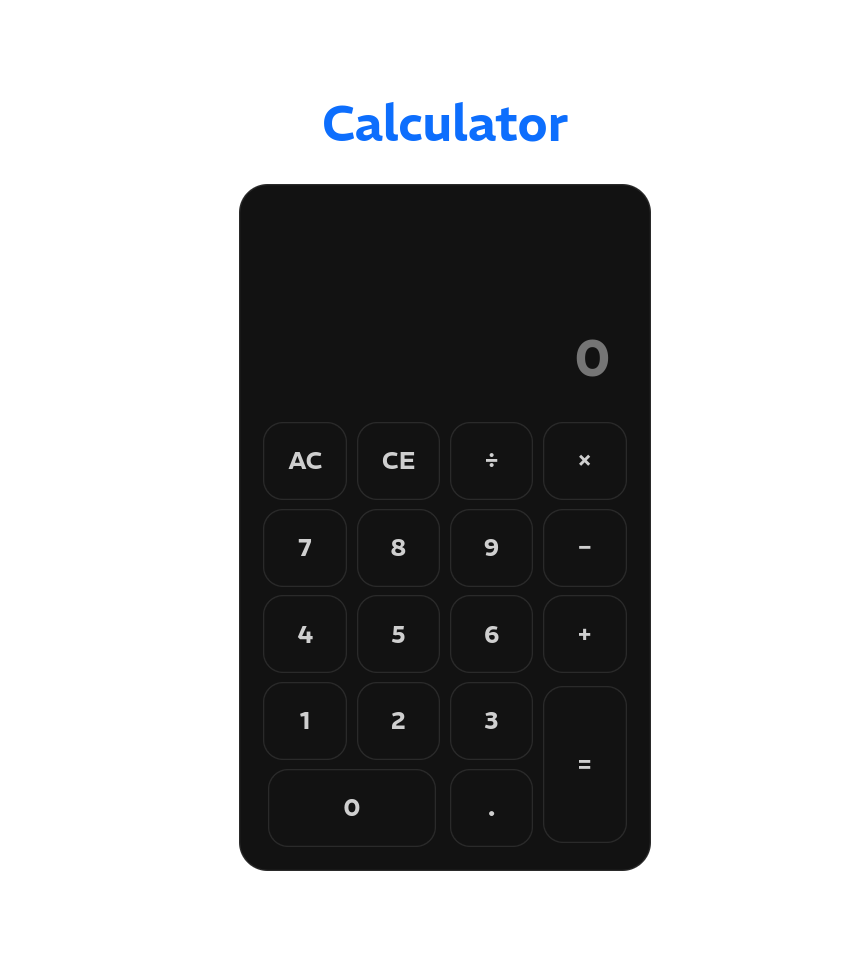
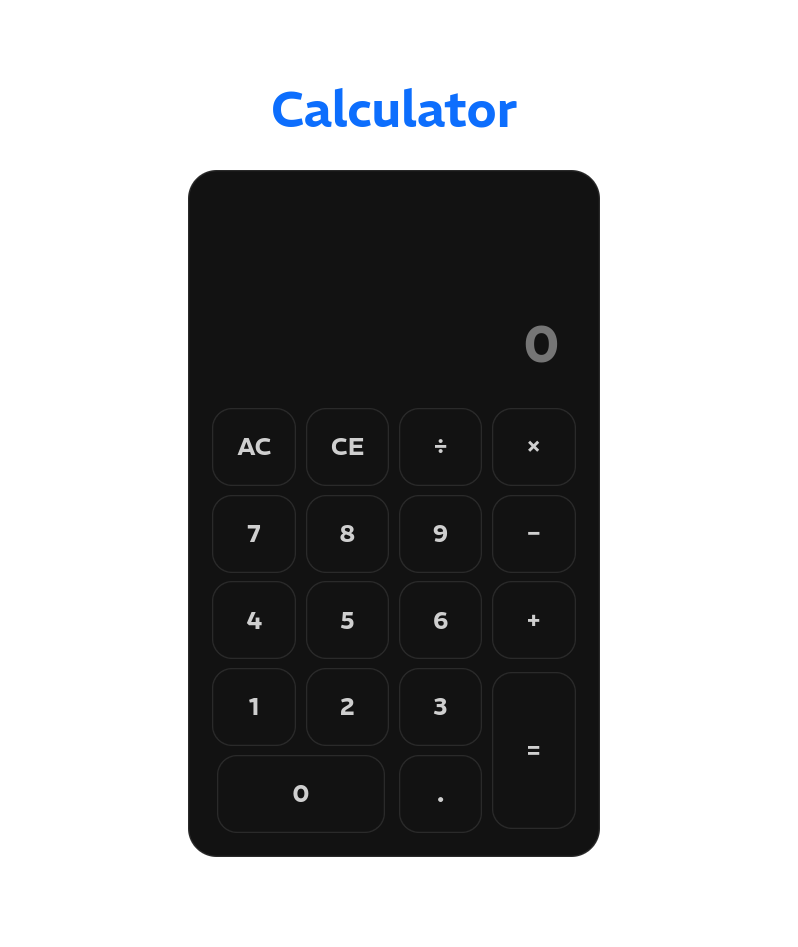
project fix

diff --git a/index.html b/index.html
@@ -105,7 +105,12 @@
         <div class="splide__track">
           <ul class="splide__list">
             <li class="splide__slide">
-              <img src="assets/modern-calculator.png" alt="" />
+              <a
+                href="https://a-bhish3k.github.io/modern-calculator/"
+                target="_blank"
+              >
+                <img src="assets/modern-calculator.png" alt=""
+              /></a>
             </li>
             <li class="splide__slide">
               <img src="assets/pfp.jpeg" alt="" />

diff --git a/style.css b/style.css
@@ -215,11 +215,14 @@ nav li {
 }
 
 .splide__slide img {
+  height: 500px;
+  width: 400px;
   display: block;
   width: 100%;
   border-radius: 8px;
   transition: transform 400ms;
   transform: scale(0.8);
+  object-fit: cover;
 }
 
 .splide__slide.is-active img {
